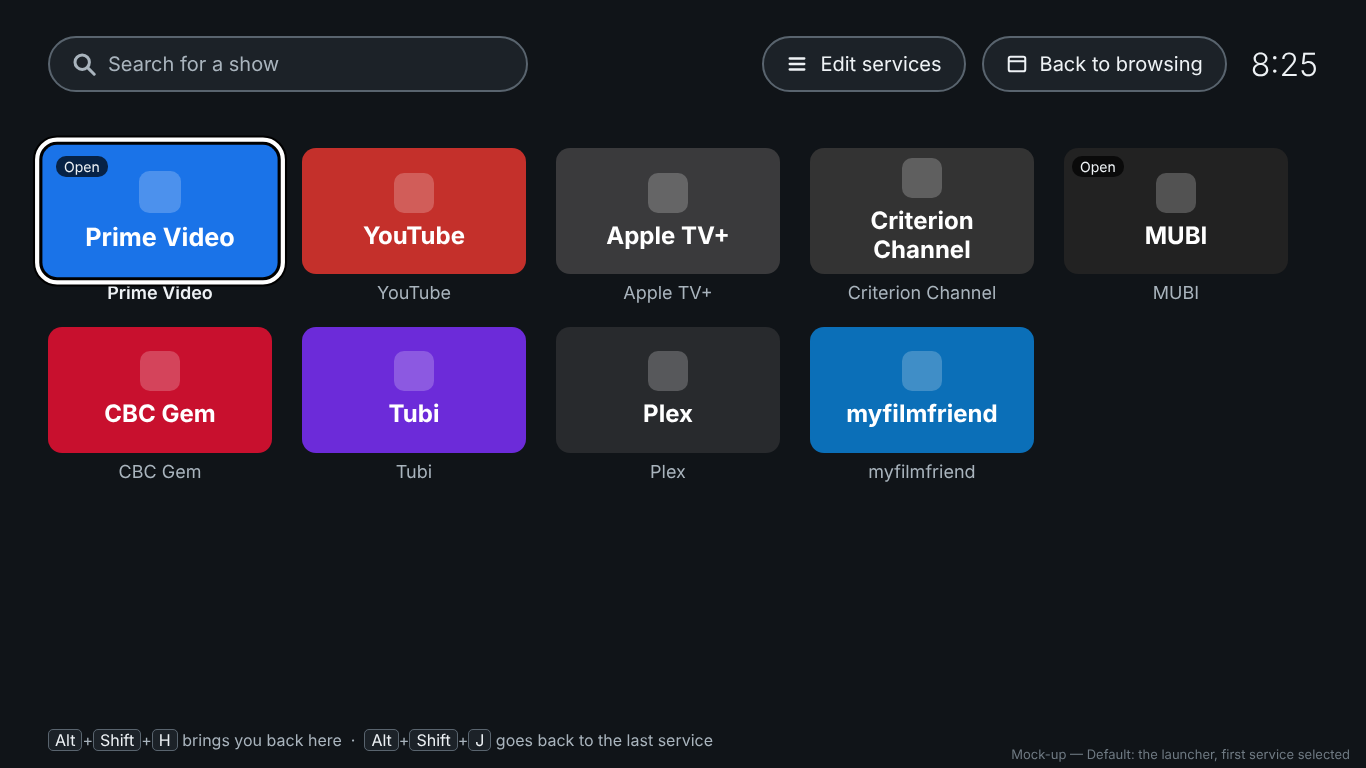
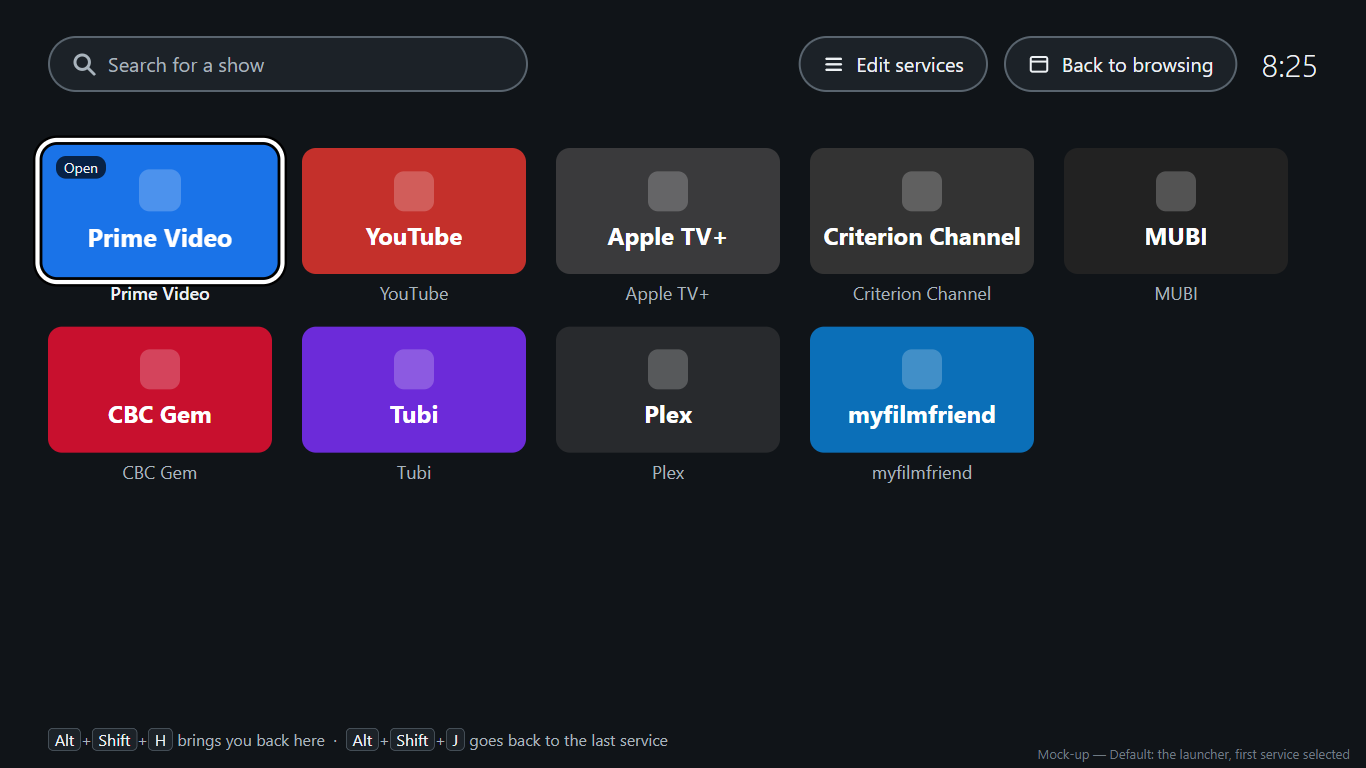
Revision: one service open at a time on the Chromebook
Opening a different service closes the one that was open; JustWatch's results count as the open
service. The project lead's change, 2026-11-17: open video players waste battery and memory, and
Open markers on every service are confusing. Requirements, story, design (with the default and
open mock-ups re-rendered), and user documentation updated; the epic re-recorded as unaffected.

Claude-Session: https://claude.ai/code/session_01HWRLNR8qAbAnJywtjxCdrT

diff --git a/docs/design/chromebook/mockup.html b/docs/design/chromebook/mockup.html
@@ -101,7 +101,7 @@
   const grid = document.getElementById('grid');
   const editing = ['edit', 'edit-menu', 'moving', 'add', 'permission', 'hidden'].includes(state);
   const hidden = state === 'hidden' ? ['Plex'] : [];
-  const open = ['default', 'open'].includes(state) ? ['Prime Video', 'MUBI'] : [];
+  const open = ['default', 'open'].includes(state) ? ['Prime Video'] : [];
   const noPause = state === 'permission' || state === 'edit' ? ['myfilmfriend'] : [];
   const list = state === 'empty' ? [] : services.filter(([n]) => !(hidden.includes(n)));
   const tile = (name, colour, i, cls = '') => {

diff --git a/docs/design/chromebook.md b/docs/design/chromebook.md
@@ -3,7 +3,7 @@ id: design-chromebook
 status: approved
 derived-from:
   - story-chromebook-launcher: aeb2d1142c30
-  - story-chromebook-open-service: 0115b9f34e7e
+  - story-chromebook-open-service: 29eca37df80b
   - requirements-chromebook#REQ-chromebook-12: 0831b2aacc81
   - story-chromebook-go-back: 3342b71ad5f4
   - story-chromebook-search: e76b0c88e535
@@ -40,15 +40,19 @@ tablet-mode spike of 2026-11-17. -->
    full-screen window, with the first service selected; if it was already open, it comes forward
    as it was.
 2. To watch: choose a service (click, tap, or move to it with the arrow keys and press Enter). It
-   opens in its own full-screen window, or, if already open, comes back as it was left.
+   opens in its own full-screen window, or, if already open, comes back as it was left. Only one
+   service is open at a time: opening a different one closes the window of the one that was open
+   (the project lead's change, 2026-11-17: trying several services should not leave several video
+   players running, and an **Open** marker on every service is confusing).
 3. To go back: Alt+Shift+H from the service, or, without a keyboard, touch the service's page and
    tap the Home button that appears in its bottom-left corner. The launcher comes forward and the
    service's video pauses. Bringing the launcher forward from ChromeOS's own window switcher (the
    tablet-mode overview, or Alt+Tab) pauses it too. Alt+Shift+J from the launcher goes straight back
    to the last service.
 4. To search: type in **Search for a show** and press Enter. JustWatch's results for Canada open
-   in their own full-screen window. Following a link to one of the viewer's services turns that
-   window into the service's window.
+   in their own full-screen window, and the service that was open closes. Following a link to one
+   of the viewer's services turns that window into the service's window. The results count as the
+   one open service: choosing a service on the launcher closes them.
 5. To change the services: **Edit services**. Select a service to move, hide, or remove it; **Add a
    service** to add one. **Done** returns to the launcher.
 6. To stop watching: **Back to browsing** turns the launcher off. It closes the launcher's window
@@ -64,7 +68,7 @@ site's own icon.
 
 | Screen or state | Mock-up | Notes |
 |---|---|---|
-| Default, first service selected | ![Default](chromebook/default.png) | **Open** marks services whose window is open |
+| Default, first service selected | ![Default](chromebook/default.png) | **Open** marks the one service whose window is open |
 | Typing a search | ![Search](chromebook/search.png) | The status line says where results open |
 | Editing | ![Editing](chromebook/edit.png) | **Add a service** is the last tile; a service the extension cannot reach says so |
 | A service's menu | ![Menu](chromebook/edit-menu.png) | **Move**, **Hide**, **Choose picture**, **Remove**, **Cancel** |
@@ -92,8 +96,8 @@ site's own icon.
   tile instead, as the TV's banners do. The icon is the largest the site publishes for phones' home
   screens and installed web apps (usually 180 to 512 px), fetched from the site once and kept on
   the Chromebook; until it has one, or if the site publishes none, the tile shows the small icon
-  Chrome keeps for the site (the project lead's decision, 2026-11-17). In the viewer's order, hidden ones left out. A service whose
-  window is open has a small **Open** marker. A service that cannot be paused (the
+  Chrome keeps for the site (the project lead's decision, 2026-11-17). In the viewer's order, hidden ones left out. The service whose
+  window is open, at most one, has a small **Open** marker. A service that cannot be paused (the
   viewer narrowed the extension's site access in Chrome) says **Videos won't pause** under its
   name.
 - **Hint line** at the bottom: the shortcuts in use, read from Chrome, for example **Alt+Shift+H
@@ -189,7 +193,10 @@ site's own icon.
 - **Windows**: the launcher and each service are `popup` windows created full screen, so none has
   a tab strip; the spike showed switching windows never flashes Chrome's tabs or address bar. The
   service worker keeps a map from service to window in session storage, so it survives the worker
-  sleeping; a window that closes is dropped from the map. **Back to browsing** brings the browsing
+  sleeping; a window that closes is dropped from the map. The map holds at most one service: before
+  opening a service's window, or the search window, the worker closes the other windows in the map
+  and the search window (REQ-chromebook-7); a search window that becomes a service's window does
+  the same. **Back to browsing** brings the browsing
   window forward, then closes every window in the map, the search window, and the launcher's own,
   and empties the map, so nothing of the launcher is left open.
 - **Going back pauses**: on `go-home`, before bringing the launcher forward, the worker runs a

diff --git a/docs/decisions/claude-one-service-open.md b/docs/decisions/claude-one-service-open.md
@@ -1,0 +1,31 @@
+# One service open at a time on the Chromebook
+
+## Revision
+
+The project lead's change, 2026-11-17: on the Chromebook launcher, opening a different service
+closes the window of the one that was open, so at most one service is open behind the launcher.
+Their reason: "keeping 7 or more video players open just because I've been browsing around for
+something to watch seems an unnecessary use of battery and memory, and it's confusing seeing all
+these 'open' badges across all the services." Choosing the service that is open still brings it
+back as it was left, and Alt+Shift+J still goes back to it. JustWatch's results window counts as
+the open service: searching closes the service that was open, and choosing a service on the
+launcher closes the results. That last part is this revision's proposal, so that only one window
+is ever open behind the launcher; the project lead can ask for the results to stay open instead.
+
+Changed: requirements-chromebook (REQ-chromebook-7, REQ-chromebook-8), story-chromebook-open-service
+(a new acceptance criterion), design-chromebook (Flow steps 2 and 4, the Open marker in Layout and
+Mock-ups, How it works: windows), and docs-chromebook (Watch something, Find which service has a
+show).
+
+Mock-ups re-rendered: `default.png` and `open.png`, which showed **Open** on both Prime Video and
+MUBI and now show it on Prime Video only (`mockup.html`). They were rendered with Playwright from
+`mockup.html`, as `render.js` does, but on this PC, so the system font differs slightly from the
+other mock-ups.
+
+- epic-chromebook: unaffected; its stories "go back to it where it was left" and "straight back to
+  the last service" still hold for the one open service, and its outcome ("without a video playing
+  on behind them") is what this change strengthens.
+
+No spec cites the changed sections, so the extension's code is not reported as an open revision.
+The specs that implement the windows (the Chromebook launcher's services and search slices) will
+need a revision delivered after this merges.

diff --git a/docs/user/chromebook.md b/docs/user/chromebook.md
@@ -2,9 +2,9 @@
 id: docs-chromebook
 status: approved
 derived-from:
-  - design-chromebook: ba785dd6c062
+  - design-chromebook: 96763e48b537
   - story-chromebook-launcher: aeb2d1142c30
-  - story-chromebook-open-service: 0115b9f34e7e
+  - story-chromebook-open-service: 29eca37df80b
   - story-chromebook-go-back: 3342b71ad5f4
   - story-chromebook-search: e76b0c88e535
   - story-chromebook-services: 0ed11c4ae63d
@@ -64,6 +64,11 @@ choose **Edit services**, select it, and choose **Allow pausing**.
 The service opens full screen in its own window, with no tabs or address bar. If it was already
 open (the launcher marks it **Open**), you are back exactly where you left it.
 
+Only one service is open at a time. Choosing a different one closes the one you had open, so trying
+a few services while you look for something to watch doesn't leave them all running. When you
+open that service again, it starts from its own home page; the service itself remembers where you
+were in a show, as it does anywhere else.
+
 ## Go back to the launcher
 
 - With a keyboard: press **Alt+Shift+H**.
@@ -81,8 +86,9 @@ launcher.
 ## Find which service has a show
 
 1. On the launcher, type the name of a show or film in **Search for a show** and press **Enter**.
-2. JustWatch's results for Canada open, full screen, in their own window. They list every film and
-   show with that name, and the services that stream each one.
+2. JustWatch's results for Canada open, full screen, in their own window, and the service you had
+   open closes. They list every film and show with that name, and the services that stream each
+   one.
 3. Choose one of your services from the results. It opens in that same window, and from then on it
    is that service's window: Alt+Shift+H, the Home button, and pausing all work in it.
 

diff --git a/docs/product/requirements/chromebook.md b/docs/product/requirements/chromebook.md
@@ -85,9 +85,12 @@ by the shortcut, by the touch control in REQ-chromebook-12, or by switching wind
 
 Release: first
 
-Choosing a service whose window is already open brings that window back as it was left, rather than
-opening the service again. A second shortcut (Alt+Shift+J unless changed) goes from the launcher
-straight back to the last service used.
+Only one service is open at a time: choosing a different service closes the window of the one that
+was open, so browsing around for something to watch does not leave a video player running for each
+service tried (the project lead's change, 2026-11-17: open players waste battery and memory, and an
+**Open** marker on every service is confusing). Choosing the service that is open brings its window
+back as it was left, rather than opening it again. A second shortcut (Alt+Shift+J unless changed)
+goes from the launcher straight back to it.
 
 ## REQ-chromebook-8: Search shows which service has it
 
@@ -97,7 +100,8 @@ The launcher has a search box. Submitting text opens JustWatch's search for Cana
 text, in its own full-screen window: it lists every film and show with that name and the services
 that stream each one, with links (concept, Feasibility). Following a link to one of the project
 lead's services makes that window the service's window, so the shortcuts and pausing work in it as
-in any other.
+in any other. The results window counts as the one open service (REQ-chromebook-7): searching
+closes the service that was open, and choosing a service from the launcher closes the results.
 
 ## REQ-chromebook-9: The shortcuts can be changed
 

diff --git a/docs/product/epics/chromebook.md b/docs/product/epics/chromebook.md
@@ -8,8 +8,8 @@ derived-from:
   - requirements-chromebook#REQ-chromebook-4: c9e62cf62621
   - requirements-chromebook#REQ-chromebook-5: 0803033b5a70
   - requirements-chromebook#REQ-chromebook-6: 6de348bc8ebb
-  - requirements-chromebook#REQ-chromebook-7: 692aae0e30fa
-  - requirements-chromebook#REQ-chromebook-8: 077b320dba35
+  - requirements-chromebook#REQ-chromebook-7: d5005789842f
+  - requirements-chromebook#REQ-chromebook-8: b4a3f0a73969
   - requirements-chromebook#REQ-chromebook-9: b874979dd6d0
   - requirements-chromebook#REQ-chromebook-10: 4bed4a55da39
   - requirements-chromebook#REQ-chromebook-11: f40779b811e8

diff --git a/docs/product/stories/chromebook/open-service.md b/docs/product/stories/chromebook/open-service.md
@@ -23,5 +23,7 @@ screen, so that the Chromebook feels like the TV rather than a browser full of t
   Chrome's tabs or address bar show, even briefly.
 - Choosing a service that is already open brings its window back as I left it: same page, same
   place in the video, still signed in.
+- Only one service is open at a time: choosing a different one closes the one I had open, so
+  trying several services does not leave several video players running.
 - Pressing the Chromebook's full-screen key in a service's window leaves full screen as it does
   anywhere else in Chrome.
